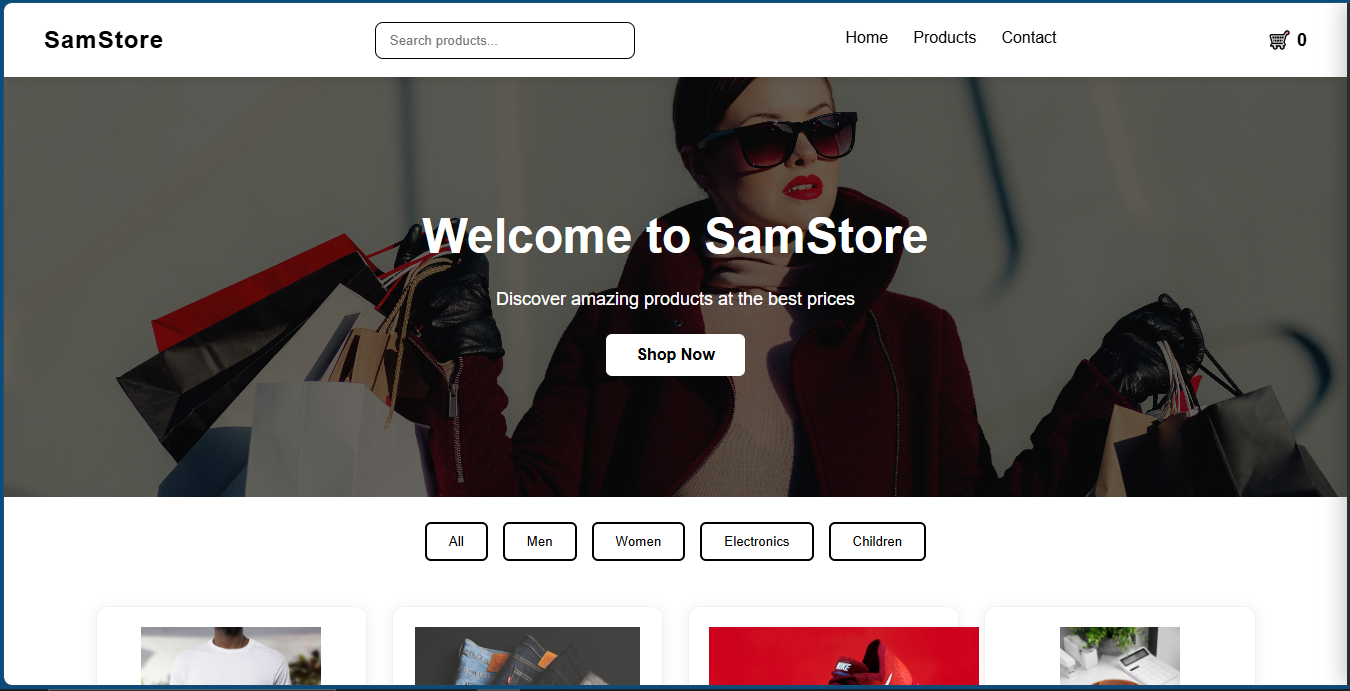
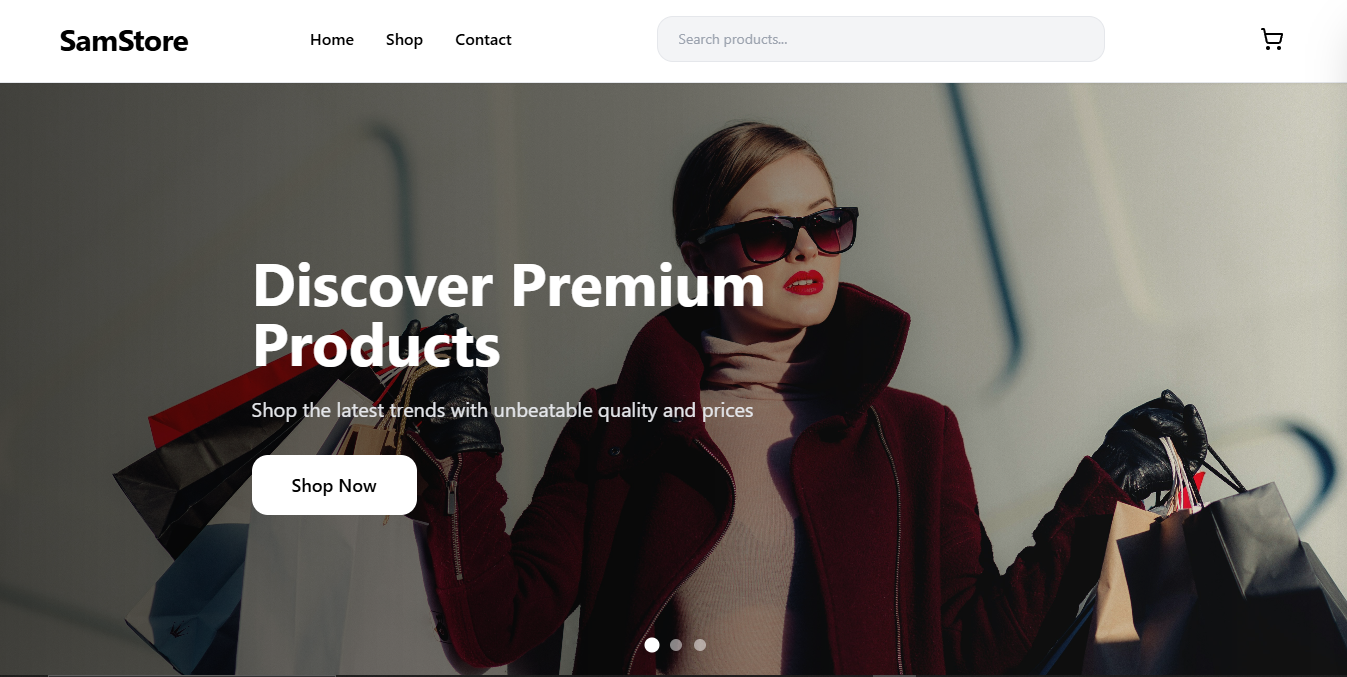
Updating URL

diff --git a/sam-portfolio-ui/src/App.jsx b/sam-portfolio-ui/src/App.jsx
@@ -32,7 +32,7 @@ function App() {
     { id: 2, title: "Fake News Detector", description: "Machine learning application that analyzes text to determine the probability of misleading information.", imageUrl: "/images/Fake-news-detector.png", liveUrl: "https://github.com/CodingwithSam606/fake-news-detection", techStack: "Python, ML, Flask", problem: "Readers struggle to distinguish factual reporting from fabricated news. Manual fact-checking is too slow.", solution: "Trained a Natural Language Processing (NLP) model using Python and Scikit-Learn, wrapped in a Flask API.", result: "Achieved an 85% accuracy rate on testing data and successfully flags clickbait patterns." },
     { id: 3, title: "Netflix UI Clone", description: "A pixel-perfect recreation of the Netflix interface featuring dynamic movie cards.", imageUrl: "/images/Netflix-clone.png", liveUrl: "https://polite-choux-478650.netlify.app/signup", techStack: "HTML, CSS, JavaScript", problem: "Standard tutorials don't push CSS Grid and hover state animations far enough.", solution: "Reverse-engineered the Netflix homepage, focusing on absolute positioning and CSS hover transformations.", result: "A pixel-perfect UI clone that responds flawlessly to screen size changes." },
     { id: 4, title: "Bakery Landing Page", description: "An elegant, warm landing page designed for a local bakery.", imageUrl: "/images/bakery.png", liveUrl: "https://bakery-website-lemon.vercel.app/", techStack: "HTML, CSS, JavaScript", problem: "Local businesses rely on generic social media templates that don't reflect their product quality.", solution: "Designed an editorial-style landing page using elegant serif typography and sticky navigation.", result: "A responsive template the business owner could immediately use to elevate their digital presence." },
-    { id: 5, title: "E-Commerce Platform", description: "A full-stack shopping experience with cart functionality.", imageUrl: "/images/Samstore.png", liveUrl: "#", techStack: "React, .Net", problem: "Building state management for a shopping cart across multiple pages can easily become tangled.", solution: "Utilized React Context API to manage global cart state and a custom hook for quantities.", result: "A seamless flow where cart data persists across views and prices calculate dynamically." }
+    { id: 5, title: "E-Commerce Platform", description: "A full-stack shopping experience with cart functionality.", imageUrl: "/images/Samstore.png", liveUrl: "https://sam-store-e-commerce.vercel.app/", techStack: "React, .Net", problem: "Building state management for a shopping cart across multiple pages can easily become tangled.", solution: "Utilized React Context API to manage global cart state and a custom hook for quantities.", result: "A seamless flow where cart data persists across views and prices calculate dynamically." }
   ];
 
   return (